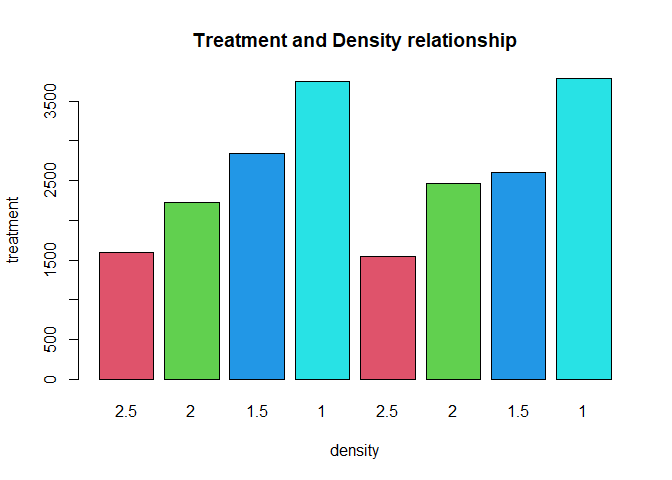
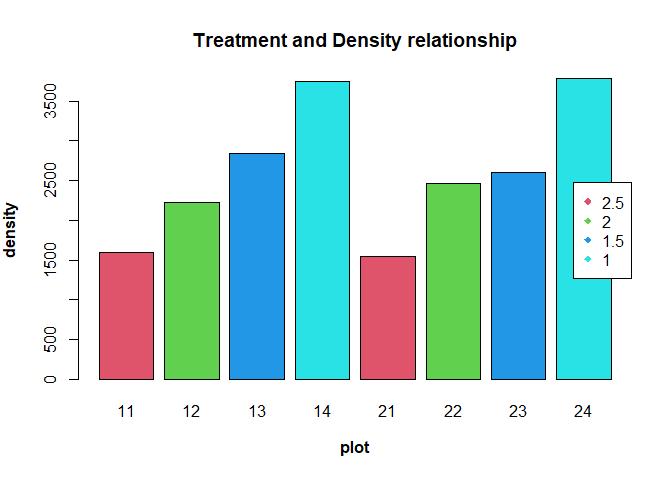
more changes to MD file

diff --git a/Readme.md b/Readme.md
@@ -345,7 +345,7 @@ site1012
 barplot(site1012$baham2,
         names.arg = site1012$plot,
         col = c(2,3,4,5),
-        ylab = substitute(paste(bold('Basal Aream2/ha'))),
+        ylab = substitute(paste(bold('Basal Area (m2/ha)'))),
         xlab = substitute(paste(bold('plot'))),
         main = 'Basal area across sites')
 legend('right',
@@ -355,13 +355,11 @@ legend('right',
        col = c(2,3,4,5))
 ```
 
-![](Readme_files/figure-markdown_github/unnamed-chunk-14-1.png)
-
-### Stand Density Estimation
-
-Stand density is a quantitative measurement of a forest. It describes
-the number of individuals (trees) on a unit area in either absolute or
-relative terms. To read more on stand density click
+![](Readme_files/figure-markdown_github/unnamed-chunk-14-1.png) \* \* \*
+\* \* \* \* \### Stand Density Estimation Stand density is a
+quantitative measurement of a forest. It describes the number of
+individuals (trees) on a unit area in either absolute or relative terms.
+To read more on stand density click
 [here](https://www.sciencedirect.com/topics/agricultural-and-biological-sciences/stand-density#:~:text=Stand%20density%20is%20a%20quantitative,Avery%20and%20Burkhart%2C%201994).)
 
 **Estimating the stand density** To calculate the density we need some
@@ -371,11 +369,7 @@ or m2
 -   The size of sample plots: this is important to calculate the total
     number of plots in the stand.
 
--   The number of trees in a sample plot
-
-Given the figures, we need extra information to be able to estimate the
-density of the stand. To do that, we estimate the plot density then
-extrapolate to a hectare
+-   The number of trees in a sample plot or the plot density
 
 ``` r
 ## To derive the plot density
@@ -390,17 +384,31 @@ site1012 <- merge (site1012, plotdens, all = T)
 site1012$dens_ha <- round((site1012$nr.length * (1/site1012$areaha)), 1)
 
 barplot(site1012$dens_ha,
-        names.arg = site1012$treatment,
-        xlab = "density",
-        ylab = "treatment",
+        names.arg = site1012$plot,
+        xlab = substitute(paste(bold("plot"))),
+        ylab = substitute(paste(bold("density"))),
         main = "Treatment and Density relationship",
         col = c(2,3,4,5))
+legend('right',
+       legend = unique(site1012$treatment),
+       pch = 18,
+       cex = 1.0,
+       col = c(2,3,4,5))
 ```
 
-![](Readme_files/figure-markdown_github/unnamed-chunk-15-1.png) There’s
-a marked difference
+![](Readme_files/figure-markdown_github/unnamed-chunk-15-1.png) The
+chart shows there’s a marked difference across plots. Plots with the
+lowest treatment, i.e., spacing have the higher density
 
 ### Deriving Arithmetic Mean Diameter(AMD) and Quadratic Mean Diameter(QMD)
+
+The quadratic mean diameter symbolized as QMD is the square root of the
+summation of the dbh squared of trees divided by the number of trees.
+$$QMD = \sqrt{(\sum d_i^2)/n}$$
+QMD is considered more appropriate than AMD (Arithmetic Mean Diameter)
+for characterizing the group of trees which have been measured. QMD
+assigns greater weight to larger trees, read more
+[here](https://www.fs.usda.gov/pnw/olympia/silv/publications/opt/436_CurtisMarshall2000.pdf)
 
 ``` r
 plotdbh <- summaryBy(dm+dd~plot, data = dbh1012, FUN = c(mean, sum))
